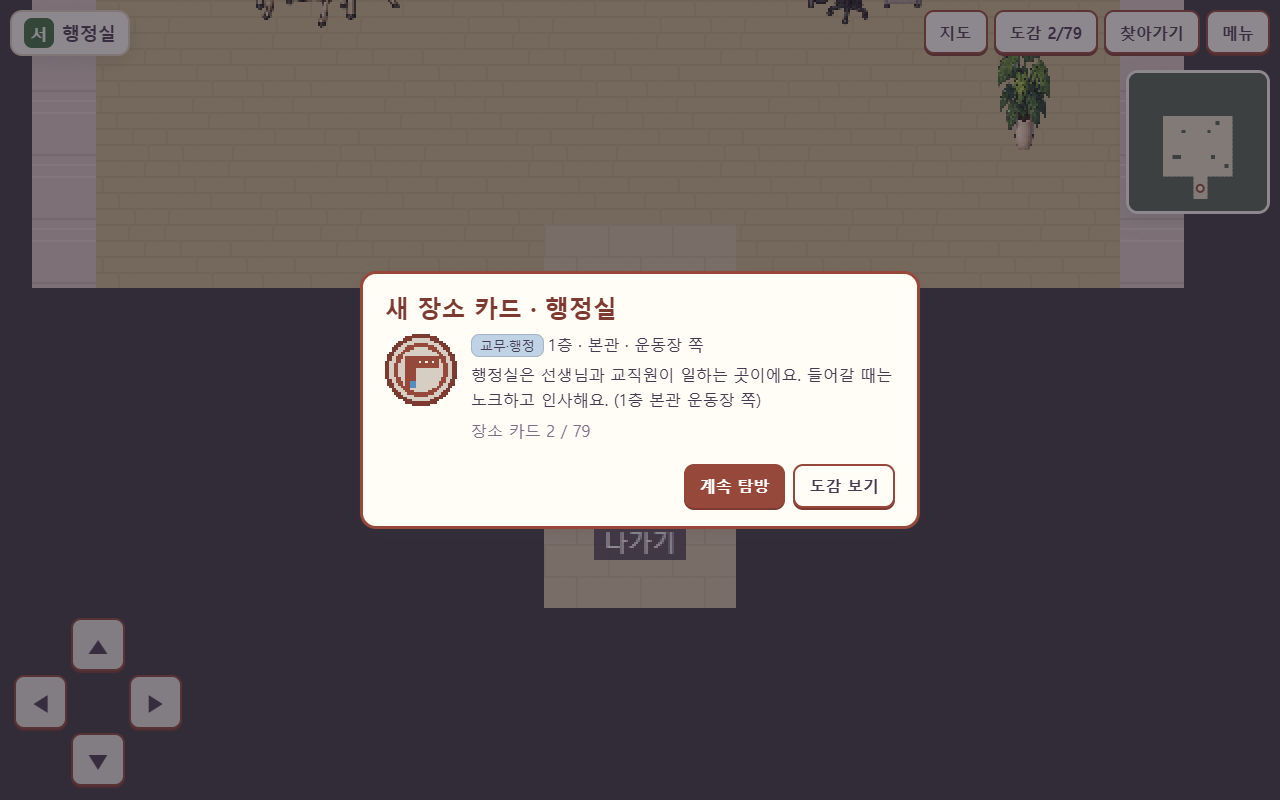
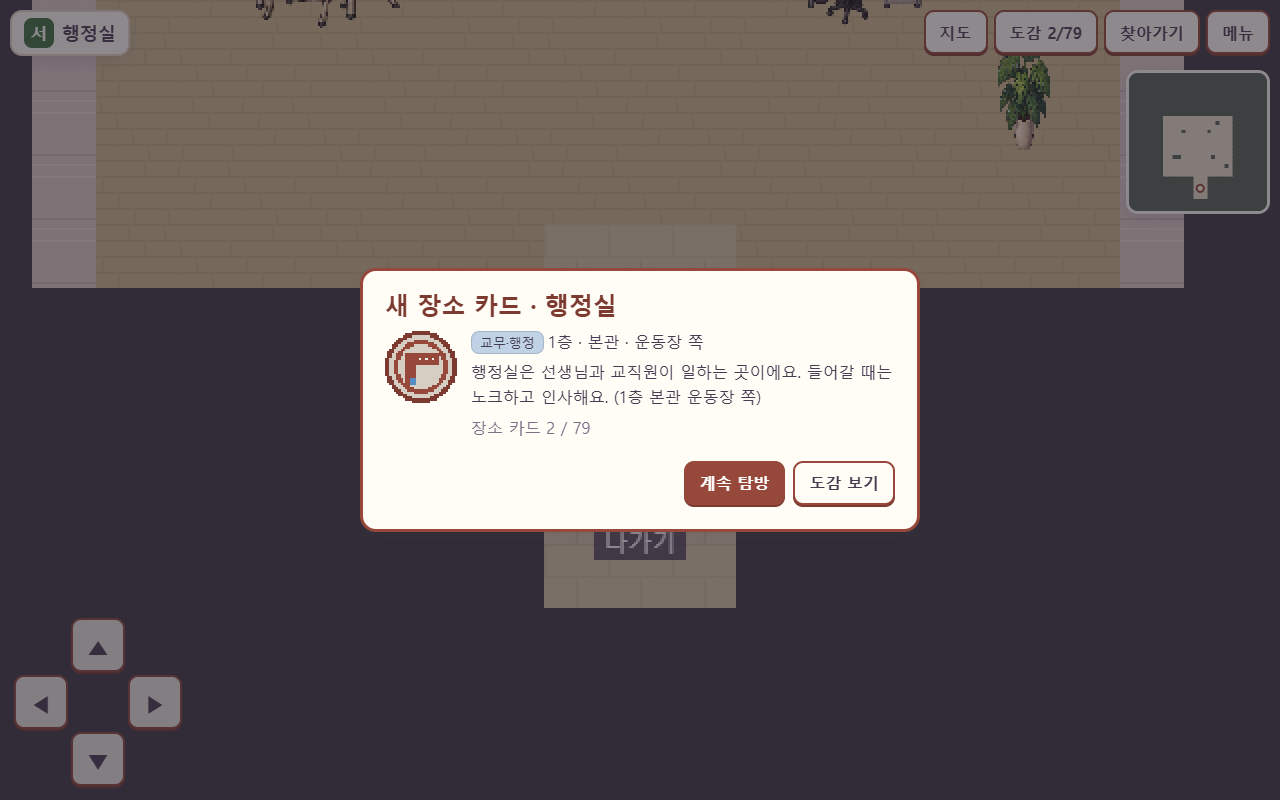
서라벌 탐방: 오래된 브라우저 터치 수정(Pointer Events 없으면 터치·마우스로), 패드·창의 CSS Grid와 8자리 HEX 색 제거, 시작 화면 색 변화 제거

diff --git a/components/explore/style.css b/components/explore/style.css
@@ -2,7 +2,7 @@
 :root{
   --cream:#fff9ee; --paper:#fffdf6; --ink:#463c52; --muted:#7c7189;
   --brick:#96483a; --brick-l:#a65442; --brick-d:#7c3a30; --canopy:#464a50; --vault:#568cc4; --hedge:#3e7040;
-  --line:#e3d7c5; --shadow:0 6px 18px #46344a22;
+  --line:#e3d7c5; --shadow:0 6px 18px rgba(70,52,74,0.13);
   font-family:'Malgun Gothic','Apple SD Gothic Neo','Noto Sans KR',sans-serif;
 }
 *{box-sizing:border-box}
@@ -21,25 +21,28 @@ canvas{image-rendering:pixelated;image-rendering:crisp-edges}
 /* play */
 #play{position:absolute;top:0;right:0;bottom:0;left:0}
 #world{position:absolute;top:0;right:0;bottom:0;left:0;width:100%;height:100%;background:#263b3c;touch-action:none}
-.hud{position:absolute;left:10px;right:10px;top:10px;display:flex;gap:10px;align-items:flex-start;pointer-events:none}
+.hud{position:absolute;left:10px;right:10px;top:10px;display:flex;align-items:flex-start;pointer-events:none}
+.hud>*+*{margin-left:10px}
 .hud>*{pointer-events:auto}
-.where{display:flex;align-items:center;gap:8px;background:var(--paper);border:2px solid var(--line);border-radius:12px;padding:6px 12px;box-shadow:var(--shadow)}
+.where{display:flex;align-items:center;background:var(--paper);border:2px solid var(--line);border-radius:12px;padding:6px 12px;box-shadow:var(--shadow)}
+.where>*+*{margin-left:8px}
 .where b{font-size:18px}
-.seal{display:inline-grid;place-items:center;width:30px;height:30px;border-radius:8px;background:var(--hedge);color:#fff;font-weight:800}
-.hud-buttons{margin-left:auto;display:flex;gap:6px;flex-wrap:wrap;justify-content:flex-end}
+.seal{display:inline-block;text-align:center;line-height:30px;width:30px;height:30px;border-radius:8px;background:var(--hedge);color:#fff;font-weight:800}
+.hud-buttons{margin-left:auto;display:flex;flex-wrap:wrap;justify-content:flex-end}
+.hud-buttons>*{margin:0 0 6px 6px}
 .mission{background:var(--paper);border:2px solid var(--brick);border-radius:12px;padding:6px 12px;box-shadow:var(--shadow);font-size:15px;max-width:440px}
 .mission b{color:var(--brick)}
 .mission .done{color:var(--hedge);text-decoration:line-through}
 #mini{position:absolute;right:10px;top:70px;width:144px;height:144px;border:3px solid var(--paper);border-radius:12px;box-shadow:var(--shadow);background:#536254}
-.pad{position:absolute;left:14px;bottom:14px;width:168px;height:168px;display:grid;grid-template:repeat(3,1fr)/repeat(3,1fr);gap:4px;touch-action:none}
-.pad button{font-size:22px;opacity:.88;padding:0}
-.pad [data-dir=up]{grid-area:1/2}.pad [data-dir=left]{grid-area:2/1}.pad [data-dir=right]{grid-area:2/3}.pad [data-dir=down]{grid-area:3/2}
+.pad{position:absolute;left:14px;bottom:14px;width:168px;height:168px;touch-action:none;-ms-touch-action:none}
+.pad button{position:absolute;width:54px;height:54px;font-size:22px;opacity:.88;padding:0}
+.pad [data-dir=up]{left:57px;top:0}.pad [data-dir=left]{left:0;top:57px}.pad [data-dir=right]{left:114px;top:57px}.pad [data-dir=down]{left:57px;top:114px}
 .act{position:absolute;right:18px;bottom:24px;width:120px;height:120px;border-radius:60px;font-size:20px;background:var(--brick);color:#fff}
-.toast{position:absolute;left:50%;bottom:28px;transform:translateX(-50%);background:#463c52e6;color:#fff;padding:8px 16px;border-radius:20px;opacity:0;transition:opacity .25s;pointer-events:none;max-width:80%;text-align:center}
+.toast{position:absolute;left:50%;bottom:28px;transform:translateX(-50%);background:rgba(70,60,82,0.9);color:#fff;padding:8px 16px;border-radius:20px;opacity:0;transition:opacity .25s;pointer-events:none;max-width:80%;text-align:center}
 .toast.show{opacity:1}
 
 /* title */
-/* 화면을 반으로: 왼쪽(흰색) 서라벌 탐방하기 / 오른쪽(색이 바뀌는 초록) 서라벌여중 길 안내.
+/* 화면을 반으로: 왼쪽(흰색) 서라벌 탐방하기 / 오른쪽(초록) 서라벌여중 길 안내.
    오래된 내장 브라우저를 위해 grid·gap 없이 flex와 margin만 씁니다. */
 .title-screen{position:absolute;top:0;right:0;bottom:0;left:0;display:-webkit-box;display:-webkit-flex;display:flex;background:#fff}
 .half{position:relative;-webkit-box-flex:1;-webkit-flex:1 1 0;flex:1 1 0;width:50%;display:-webkit-box;display:-webkit-flex;display:flex;-webkit-box-align:center;-webkit-align-items:center;align-items:center;-webkit-box-pack:center;-webkit-justify-content:center;justify-content:center;text-align:center;cursor:pointer;-webkit-tap-highlight-color:transparent;-webkit-user-select:none;user-select:none;overflow:hidden}
@@ -48,11 +51,9 @@ canvas{image-rendering:pixelated;image-rendering:crisp-edges}
 .half h1{margin:0 0 22px;font-size:64px;line-height:1.18;letter-spacing:2px}
 .half-play{background:#fff;color:var(--brick-d);border-right:3px solid #e4ddd0}
 .half-play small{color:var(--muted)}
-.half-guide{color:#fff;background:#2f8a5e;-webkit-animation:guideHue 9s ease-in-out infinite;animation:guideHue 9s ease-in-out infinite}
+.half-guide{color:#fff;background:#2f8a5e}
 .half-guide small{color:#e6f6ec}
 .half-guide h1{text-shadow:0 3px 0 rgba(0,0,0,.18)}
-@-webkit-keyframes guideHue{0%{background-color:#2f8a5e}33%{background-color:#1f8f8a}66%{background-color:#5f9e3a}100%{background-color:#2f8a5e}}
-@keyframes guideHue{0%{background-color:#2f8a5e}33%{background-color:#1f8f8a}66%{background-color:#5f9e3a}100%{background-color:#2f8a5e}}
 .guide-pin{display:block;width:64px;height:auto;margin:0 auto 14px;image-rendering:pixelated}
 .go{display:inline-block;padding:14px 34px;border-radius:40px;font-size:24px;font-weight:800}
 .go-play{background:var(--brick);color:#fff;box-shadow:0 4px 0 var(--brick-d)}
@@ -67,41 +68,53 @@ canvas{image-rendering:pixelated;image-rendering:crisp-edges}
 
 /* map view */
 .mapview{position:absolute;top:0;right:0;bottom:0;left:0;background:var(--cream);display:flex;flex-direction:column;z-index:20}
-.map-head{display:flex;align-items:center;gap:12px;padding:10px 14px;border-bottom:2px solid var(--line);flex-wrap:wrap}
+.map-head{display:flex;align-items:center;padding:10px 14px;border-bottom:2px solid var(--line);flex-wrap:wrap}
+.map-head>*{margin:3px 12px 3px 0}
 .map-head h2{margin:0;font-size:20px;color:var(--brick-d)}
-.tabs{display:flex;gap:6px;flex-wrap:wrap}
+.tabs{display:flex;flex-wrap:wrap}
+.tabs>*{margin:0 6px 4px 0}
 .tabs button{min-width:64px}
 .close{margin-left:auto}
 .map-body{flex:1;display:flex;min-height:0}
-.map-stage{flex:1;position:relative;overflow:hidden;display:grid;place-items:center;background:#f4ecdc}
+.map-stage{-webkit-box-flex:1;-webkit-flex:1;flex:1;position:relative;overflow:hidden;display:-webkit-box;display:-webkit-flex;display:flex;-webkit-box-align:center;-webkit-align-items:center;align-items:center;-webkit-box-pack:center;-webkit-justify-content:center;justify-content:center;background:#f4ecdc}
 #mapCanvas{display:block;touch-action:none}
-.map-side{width:330px;max-width:42%;border-left:2px solid var(--line);padding:12px;overflow:auto;background:var(--paper);display:flex;flex-direction:column;gap:10px}
+.map-side{width:330px;max-width:42%;border-left:2px solid var(--line);padding:12px;overflow:auto;background:var(--paper);display:flex;flex-direction:column}
+.map-side>*+*{margin-top:10px}
+.map-side>*+*{margin-top:10px}
 #mapSearch{width:100%;min-height:46px;border:2px solid var(--brick);border-radius:10px;padding:8px 12px;-webkit-user-select:text;user-select:text}
-.results{display:flex;flex-direction:column;gap:4px}
+.results{display:flex;flex-direction:column}
+.results>*+*{margin-top:4px}
+.results>*+*{margin-top:4px}
 .results button{text-align:left;font-weight:600;box-shadow:none;border-width:1px}
 .info h3{margin:0 0 4px;font-size:22px}
-.chip{display:inline-block;padding:2px 8px;border-radius:8px;font-size:13px;border:1px solid #0002;margin-right:4px}
+.chip{display:inline-block;padding:2px 8px;border-radius:8px;font-size:13px;border:1px solid rgba(0,0,0,0.13);margin-right:4px}
 .muted{color:var(--muted)}
-.route-toggle{display:flex;gap:8px;align-items:center;font-weight:600}
+.route-toggle{display:flex;align-items:center;font-weight:600}
+.route-toggle input{margin:0 8px 0 0}
 .route-toggle input{width:22px;height:22px}
 .steps{margin:0;padding-left:22px;line-height:1.5}
-.legend{display:flex;flex-wrap:wrap;gap:4px;font-size:13px}
+.legend{display:flex;flex-wrap:wrap;font-size:13px}
+.legend>*{margin:0 4px 4px 0}
 .numbers{font-size:13px;line-height:1.5;columns:2}
 @media (max-width:820px){.map-body{flex-direction:column}.map-side{width:auto;max-width:none;border-left:0;border-top:2px solid var(--line);max-height:42%}}
 
 /* modal */
-.modal{position:absolute;top:0;right:0;bottom:0;left:0;background:#2a223088;display:grid;place-items:center;z-index:40}
+.modal{position:absolute;top:0;right:0;bottom:0;left:0;background:rgba(42,34,48,.53);display:-webkit-box;display:-webkit-flex;display:flex;-webkit-box-align:center;-webkit-align-items:center;align-items:center;-webkit-box-pack:center;-webkit-justify-content:center;justify-content:center;z-index:40}
 .sheet{background:var(--paper);border:3px solid var(--brick);border-radius:16px;padding:18px 22px;width:560px;max-width:calc(100% - 28px);max-height:calc(100% - 28px);overflow:auto;box-shadow:var(--shadow)}
 .sheet h2{margin:0 0 10px;color:var(--brick-d)}
-.actions{display:flex;gap:8px;justify-content:flex-end;flex-wrap:wrap;margin-top:14px}
-.card{display:flex;gap:14px;align-items:flex-start}
+.actions{display:flex;justify-content:flex-end;flex-wrap:wrap;margin-top:14px}
+.actions>*{margin:0 0 6px 8px}
+.card{display:flex;align-items:flex-start}
+.card>*+*{margin-left:14px}
 .card .stamp{width:72px;height:72px;flex:none}
 .card p{margin:6px 0;line-height:1.55}
-.floors{display:grid;grid-template-columns:repeat(2,1fr);gap:8px}
+.floors{display:-webkit-box;display:-webkit-flex;display:flex;-webkit-flex-wrap:wrap;flex-wrap:wrap;margin:-4px}
+.floors>*{width:calc(50% - 8px);margin:4px}
 .floors button{min-height:64px;font-size:20px}
 .book-floor{margin:10px 0}
 .book-floor h3{margin:4px 0;font-size:16px}
-.book-grid{display:flex;flex-wrap:wrap;gap:6px}
-.book-grid span{padding:4px 8px;border-radius:8px;border:1px solid #0002;font-size:14px}
+.book-grid{display:-webkit-flex;display:flex;-webkit-flex-wrap:wrap;flex-wrap:wrap;margin:-3px}
+.book-grid span{margin:3px}
+.book-grid span{padding:4px 8px;border-radius:8px;border:1px solid rgba(0,0,0,0.13);font-size:14px}
 .book-grid span.locked{background:#eee8de;color:#9c94a6}
 .result-title{font-size:26px;color:var(--brick);font-weight:800}

diff --git a/components/explore/js/engine.js b/components/explore/js/engine.js
@@ -65,31 +65,34 @@
     });
     window.addEventListener('keyup', function (e) { E.keys[e.key.toLowerCase()] = false; });
     window.addEventListener('blur', function () { E.keys = {}; E.pad = null; });
+    // direction pad and tap-to-move use U.press (Pointer Events, or touch/mouse on older browsers)
     var pad = U.$('pad'), padId = null;
-    pad.addEventListener('pointerdown', function (e) {
-      var b = e.target.closest ? e.target.closest('button') : e.target;
-      if (!b || padId !== null) return;                  // first finger only
-      padId = e.pointerId; E.pad = b.getAttribute('data-dir'); E.path = [];
-      try { pad.setPointerCapture(e.pointerId); } catch (x) {}
-      e.preventDefault();
-    });
-    function padUp(e) { if (e.pointerId === padId) { padId = null; E.pad = null; } }
-    pad.addEventListener('pointerup', padUp); pad.addEventListener('pointercancel', padUp);
-    pad.addEventListener('pointermove', function (e) {
-      if (e.pointerId !== padId) return;
-      var el = document.elementFromPoint(e.clientX, e.clientY);
-      var d = el && el.getAttribute && el.getAttribute('data-dir'); if (d) E.pad = d;
+    function dirAt(p) {
+      var el = document.elementFromPoint(p.x, p.y) || p.target;
+      for (; el && el !== pad; el = el.parentNode) if (el.getAttribute && el.getAttribute('data-dir')) return el.getAttribute('data-dir');
+      return null;
+    }
+    U.press(pad, {
+      down: function (p) {
+        var d = dirAt(p);
+        if (!d || padId !== null) return;                // first finger only
+        padId = p.id; E.pad = d; E.path = [];
+      },
+      move: function (p) { if (p.id !== padId) return; var d = dirAt(p); if (d) E.pad = d; },
+      up: function (p) { if (p.id === padId) { padId = null; E.pad = null; } }
     });
     var tapId = null;
-    cv.addEventListener('pointerdown', function (e) { if (tapId === null) tapId = e.pointerId; });
-    cv.addEventListener('pointerup', function (e) {
-      if (e.pointerId !== tapId) return; tapId = null;
-      if (E.paused || U.modalOpen() || !E.map) return;
-      var r = cv.getBoundingClientRect();
-      var wx = (e.clientX - r.left) / E.zoom + camera.x, wy = (e.clientY - r.top) / E.zoom + camera.y;
-      E.walkTo(Math.floor(wx / T), Math.floor(wy / T));
+    U.press(cv, {
+      down: function (p) { if (tapId === null) tapId = p.id; },
+      up: function (p) {
+        if (p.id !== tapId) return; tapId = null;
+        if (E.paused || U.modalOpen() || !E.map) return;
+        var r = cv.getBoundingClientRect();
+        var wx = (p.x - r.left) / E.zoom + camera.x, wy = (p.y - r.top) / E.zoom + camera.y;
+        E.walkTo(Math.floor(wx / T), Math.floor(wy / T));
+      },
+      cancel: function () { tapId = null; }
     });
-    cv.addEventListener('pointercancel', function () { tapId = null; });
   }
 
   /* ---------- tap-to-move (movement only; no guidance is drawn) ---------- */
@@ -201,7 +204,7 @@
   function label(text, x, y, strong) {
     ctx.font = (strong ? 'bold ' : '') + '12px "Malgun Gothic","Apple SD Gothic Neo",sans-serif';
     var w = ctx.measureText(text).width + 10, lx = Math.round(x - camera.x - w / 2), ly = Math.round(y - camera.y);
-    ctx.fillStyle = strong ? '#96483aee' : '#463c52d8'; ctx.fillRect(lx, ly - 13, w, 17);
+    ctx.fillStyle = strong ? 'rgba(150,72,58,0.93)' : 'rgba(70,60,82,0.85)'; ctx.fillRect(lx, ly - 13, w, 17);
     ctx.fillStyle = '#fff'; ctx.fillText(text, lx + 5, ly);
   }
   // teal room plate above a door (like the real signs in the corridor)
@@ -240,7 +243,7 @@
       list.push({ y: n.y * T + 24, fn: function () { drawActor(U.images.npcs, (v % 7) * 32, Math.floor(v / 7) * 48, n.x * T + 16, n.y * T + 24); } });
     });
     list.push({ y: p.y, fn: function () {
-      ctx.fillStyle = '#24372f44'; ctx.beginPath(); ctx.ellipse(p.x - camera.x, p.y - camera.y, 11, 4, 0, 0, 7); ctx.fill();
+      ctx.fillStyle = 'rgba(36,55,47,0.27)'; ctx.beginPath(); ctx.ellipse(p.x - camera.x, p.y - camera.y, 11, 4, 0, 0, 7); ctx.fill();
       drawActor(U.images.avatars, (p.moving ? Math.floor(p.anim) % 4 : 0) * 32, (E.avatar * 4 + p.dir) * 48, p.x, p.y);
     } });
     list.sort(function (a, b) { return a.y - b.y; });

diff --git a/components/explore/js/util.js b/components/explore/js/util.js
@@ -21,6 +21,49 @@ window.SRB = SRB;
     });
     return fetch(url).then(function (r) { if (!r.ok) throw new Error(url + ' ' + r.status); return r.json(); });
   };
+  /* Press input that works on every browser: Pointer Events when the browser has them, otherwise touch
+     events (older built-in browsers such as the signage display) plus mouse. Handlers get {x, y, id, target}. */
+  U.press = function (el, h) {
+    function fire(fn, x, y, id, target) { if (fn) fn({ x: x, y: y, id: id, target: target }); }
+    if (window.PointerEvent) {
+      el.addEventListener('pointerdown', function (e) {
+        try { el.setPointerCapture(e.pointerId); } catch (x) {}
+        fire(h.down, e.clientX, e.clientY, e.pointerId, e.target); e.preventDefault();
+      });
+      el.addEventListener('pointermove', function (e) { fire(h.move, e.clientX, e.clientY, e.pointerId, e.target); });
+      el.addEventListener('pointerup', function (e) { fire(h.up, e.clientX, e.clientY, e.pointerId, e.target); });
+      el.addEventListener('pointercancel', function (e) { fire(h.cancel || h.up, e.clientX, e.clientY, e.pointerId, e.target); });
+      return;
+    }
+    var lastTouch = 0, mouseDown = false;
+    function each(e, fn) {
+      lastTouch = Date.now();
+      for (var i = 0; i < e.changedTouches.length; i++) {
+        var t = e.changedTouches[i];
+        fire(fn, t.clientX, t.clientY, t.identifier, document.elementFromPoint(t.clientX, t.clientY) || e.target);
+      }
+    }
+    el.addEventListener('touchstart', function (e) { each(e, h.down); e.preventDefault(); }, false);
+    el.addEventListener('touchmove', function (e) { each(e, h.move); e.preventDefault(); }, false);
+    el.addEventListener('touchend', function (e) { each(e, h.up); e.preventDefault(); }, false);
+    el.addEventListener('touchcancel', function (e) { each(e, h.cancel || h.up); }, false);
+    el.addEventListener('mousedown', function (e) {
+      if (Date.now() - lastTouch < 800) return;           // the browser's copy of a touch
+      mouseDown = true; fire(h.down, e.clientX, e.clientY, 'mouse', e.target); e.preventDefault();
+    });
+    window.addEventListener('mousemove', function (e) { if (mouseDown) fire(h.move, e.clientX, e.clientY, 'mouse', e.target); });
+    window.addEventListener('mouseup', function (e) { if (!mouseDown) return; mouseDown = false; fire(h.up, e.clientX, e.clientY, 'mouse', e.target); });
+  };
+  // a plain tap on a non-button element (title halves): click everywhere, plus touchend where click may not come
+  U.tap = function (el, fn) {
+    var t0 = 0;
+    function inButton(n) { for (; n && n !== el; n = n.parentNode) if (n.tagName === 'BUTTON') return true; return false; }
+    el.addEventListener('touchend', function (e) {
+      if (e.changedTouches.length !== 1 || inButton(e.target)) return;   // e.g. a character button inside the half
+      t0 = Date.now(); e.preventDefault(); fn(e);
+    }, false);
+    el.addEventListener('click', function (e) { if (Date.now() - t0 > 800) fn(e); });
+  };
   U.images = {};
   U.loadImage = function (name) {
     return new Promise(function (ok, fail) {

diff --git a/components/explore/js/mapview.js b/components/explore/js/mapview.js
@@ -18,7 +18,7 @@
     U.$('mapSearch').addEventListener('input', search);
     U.$('routeToggle').onchange = function () { refreshRoute(); };
     U.$('evToggle').onchange = function () { refreshRoute(); };
-    cv.addEventListener('pointerup', onTap);
+    U.press(cv, { up: function (p) { onTap({ clientX: p.x, clientY: p.y }); } });   // touch/mouse fallback on old browsers
     window.addEventListener('resize', function () { if (MV.open) render(); });
     var lg = U.$('mapLegend');
     ['classroom', 'office', 'special', 'care', 'service', 'restroom', 'stair', 'ev'].forEach(function (k) {
@@ -68,7 +68,7 @@
   function font(px, bold) { ctx.font = (bold ? 'bold ' : '') + px + 'px "Malgun Gothic","Apple SD Gothic Neo",sans-serif'; }
   function tag(text, x, y, strong) {
     font(13, true); var w = ctx.measureText(text).width + 12;
-    ctx.fillStyle = strong ? '#96483aee' : '#463c52e0'; ctx.fillRect(Math.round(x - w / 2), Math.round(y - 15), w, 20);
+    ctx.fillStyle = strong ? 'rgba(150,72,58,0.93)' : 'rgba(70,60,82,0.88)'; ctx.fillRect(Math.round(x - w / 2), Math.round(y - 15), w, 20);
     ctx.fillStyle = '#fff'; ctx.fillText(text, Math.round(x - w / 2 + 6), Math.round(y));
   }
   function pinAt(x, y, k) {
@@ -133,7 +133,7 @@
         tag('확인 필요', (x0 + x1) / 2, (y0 + y1) / 2 + 6, false); return;
       }
       if (MV.selected === p) {
-        ctx.fillStyle = blink % 40 < 20 ? '#96483a66' : '#96483a22'; ctx.fillRect(x0, y0, x1 - x0, y1 - y0);
+        ctx.fillStyle = blink % 40 < 20 ? 'rgba(150,72,58,0.4)' : 'rgba(150,72,58,0.13)'; ctx.fillRect(x0, y0, x1 - x0, y1 - y0);
         ctx.strokeStyle = '#7c3a30'; ctx.lineWidth = 3; ctx.strokeRect(x0 + 1.5, y0 + 1.5, x1 - x0 - 3, y1 - y0 - 3);
       }
       if (!p.visible) return;

diff --git a/components/explore/js/game.js b/components/explore/js/game.js
@@ -11,10 +11,10 @@
     G.data = data; G.save = U.load();
     data.places.forEach(function (p) { places[p.id] = p; if (p.game) gamePlaces.push(p); });
     buildAvatars();
-    U.$('btnStart').onclick = G.start;
-    U.$('btnTitleMap').onclick = function () { openMap(true); };
-    ['btnStart', 'btnTitleMap'].forEach(function (id) {          // the halves are role=button: Enter/Space too
-      U.$(id).onkeydown = function (e) { if (e.key === 'Enter' || e.key === ' ') { e.preventDefault(); U.$(id).onclick(); } };
+    var halves = { btnStart: function () { G.start(); }, btnTitleMap: function () { openMap(true); } };
+    Object.keys(halves).forEach(function (id) {                 // the halves are role=button: tap, click, Enter/Space
+      U.tap(U.$(id), function () { if (!U.$('title').hidden) halves[id](); });
+      U.$(id).onkeydown = function (e) { if (e.key === 'Enter' || e.key === ' ') { e.preventDefault(); halves[id](); } };
     });
     U.$('btnMap').onclick = function () { openMap(false); };
     U.$('btnBook').onclick = book;
@@ -30,7 +30,7 @@
     MV.onClose = function () { if (!U.$('play').hidden) E.paused = false; };
     updateCount(); titleNote();
     // 1분 동안 아무 조작이 없으면 학교 전체 지도(교정)를 보여 준다
-    ['pointerdown', 'keydown', 'wheel', 'touchstart'].forEach(function (ev) { document.addEventListener(ev, function () { G.idle.last = Date.now(); }, true); });
+    ['pointerdown', 'mousedown', 'keydown', 'wheel', 'touchstart'].forEach(function (ev) { document.addEventListener(ev, function () { G.idle.last = Date.now(); }, true); });
     setInterval(checkIdle, 1000);
   };
   G.idle = { last: Date.now(), ms: 60000 };

diff --git a/docs/EXPLORE-REPORT.md b/docs/EXPLORE-REPORT.md
@@ -21,7 +21,7 @@
 - **확인 방법:** `tests/test_explore_data.py`가 새 데이터와 JS에 이 내용이 남아 있지 않은지 매번 검사합니다. 기존 대사 문장, "미래 다이어리"·"생애"·"퀴즈" 같은 단어, `story_v4`·`futureLayers`·`routeTarget` 같은 코드 이름을 찾습니다.
 
 ## 3. 게임 규칙 ("서라벌 탐방")
-- **시작 화면:** 화면을 반으로 나눕니다. 왼쪽(흰색) **서라벌 탐방하기**는 누르면 게임이 시작되고, 캐릭터 6종은 그 안에서 고릅니다. 오른쪽(색이 천천히 바뀌는 초록) **서라벌여중 길 안내**는 누르면 "현관에서 가는 길"이 켜진 학교 지도가 열립니다(스크린샷 `25~28`).
+- **시작 화면:** 화면을 반으로 나눕니다. 왼쪽(흰색) **서라벌 탐방하기**는 누르면 게임이 시작되고, 캐릭터 6종은 그 안에서 고릅니다. 오른쪽(초록) **서라벌여중 길 안내**는 누르면 "현관에서 가는 길"이 켜진 학교 지도가 열립니다(스크린샷 `25~28`).
 - **시작:** 캐릭터 선택(이름 입력 없음) → 교정 중앙현관 앞에서 출발.
 - **이동:** 교정 → 중앙현관 → 1~4층 ┌자 복도 → 각 실.
   - 문 칸을 밟으면 들어갑니다.
@@ -46,6 +46,7 @@
   - 중앙현관: 큰 바닥 타일, 양옆 나무 벽, 유리 출입문 두 쌍과 가운데 시계, 사이니지 거치대, 화분, 안내 배너, "힘써 배우고 바르게 행하자" 액자.
   - 방송실: 어두운 바닥, ON AIR 등이 달린 부스 창, 부스 문, 모니터가 놓인 방송 책상, 장비 랙, 벽 패널, 연두색 의자.
   - 생성은 `tools/build_explore_data.py`가 함께 합니다(그림 `assets/interior-tiles.png`, `interior-props.png`). 스크린샷 `docs/screenshots-explore/20~24`, 확인 스크립트 `tests/interior_screens.cjs`.
+- **터치:** 오래된 내장 브라우저(Pointer Events 없음)에서도 터치가 되도록 모든 입력을 `U.press`(Pointer Events → 없으면 터치·마우스)로 받습니다. 방향 패드·창 배치는 CSS Grid 대신 절대 위치·flex, 색은 8자리 HEX 대신 rgba를 씁니다. 확인: `tests/touch_check.cjs`.
 - **저장:** 이 기기 localStorage에만 익명으로 저장합니다(도감, 최고 기록, 캐릭터). 메뉴에서 지울 수 있습니다.
 
 ## 4. 학교 전체 지도
